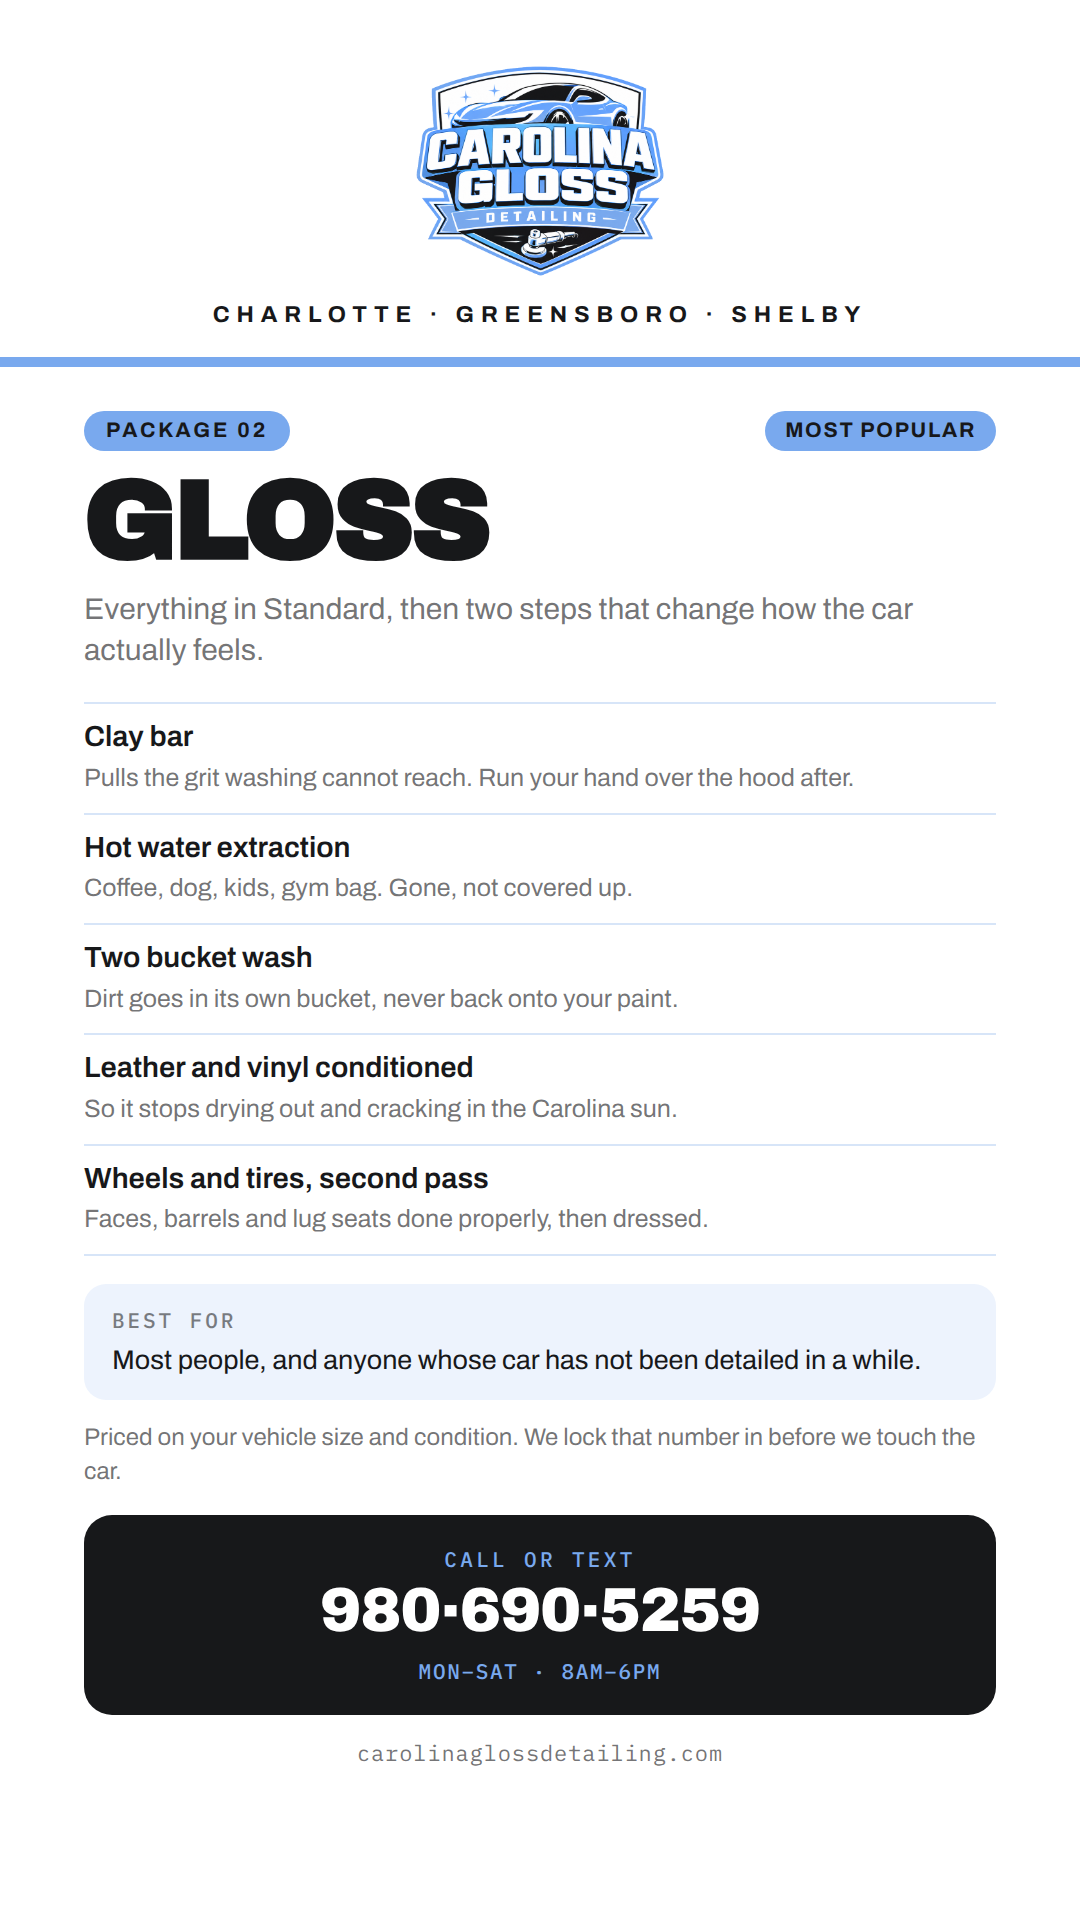
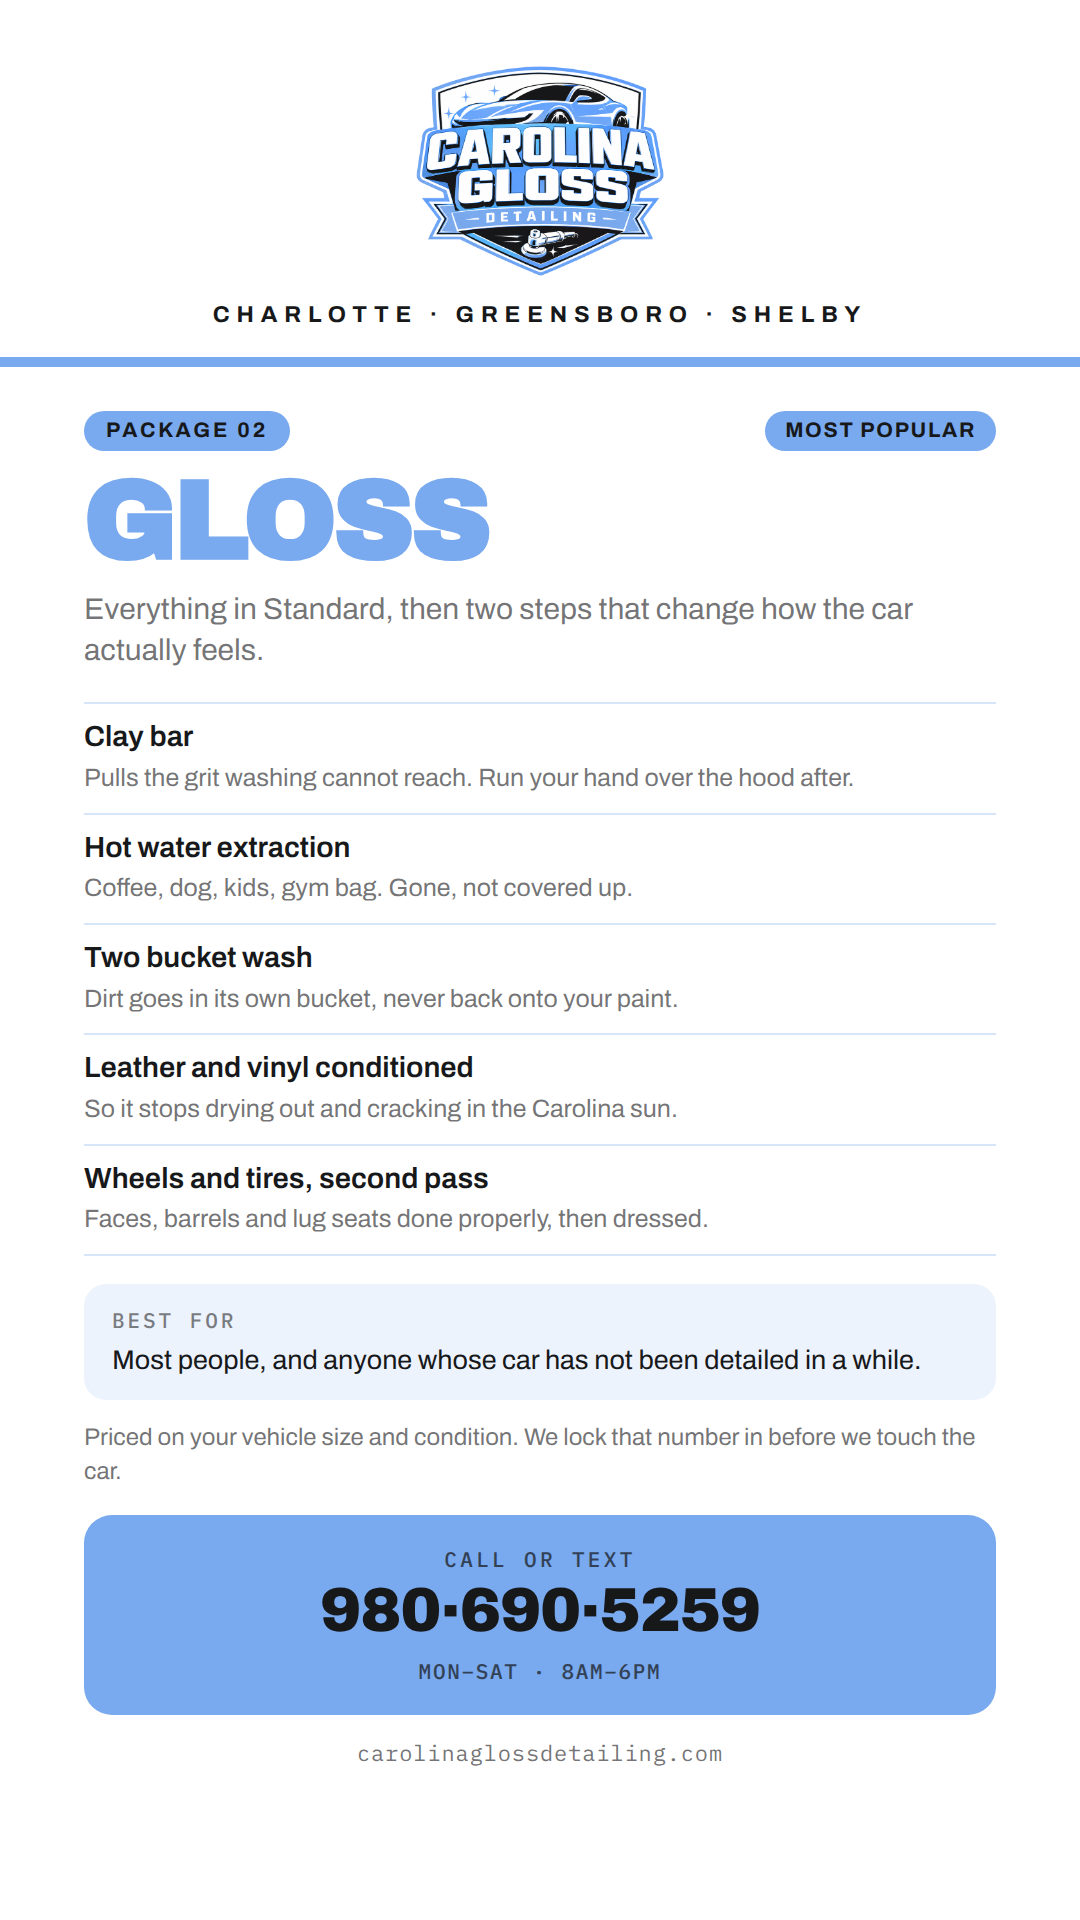
Put the package name and the CTA block in Carolina blue
The CTA block moves from black to #79A9EE and the package name headline
picks up the same blue. Type on the blue block is black rather than white:
white on #79A9EE is about 2.2:1 contrast and unreadable, black on it is 9.4:1.

Claude-Session: https://claude.ai/code/session_016b3V5EjCTmSZMCSHy3XdSF

Changed region(s): [[0.0611, 0.7812, 0.9472, 0.9062], [0.0611, 0.25, 0.4583, 0.3125]]

diff --git a/design/story-highlights/Story Highlights - Services.dc.html b/design/story-highlights/Story Highlights - Services.dc.html
@@ -34,7 +34,7 @@
         <div style="display:flex;align-items:center;justify-content:space-between;gap:20px;">
           <div style="background:#79A9EE;color:#17181A;border-radius:999px;padding:9px 22px;font:700 21px 'Archivo',sans-serif;letter-spacing:0.14em;">PACKAGE 01</div>
         </div>
-        <h1 style="margin:20px 0 0;font-family:'Archivo Black',Helvetica,sans-serif;font-size:112px;line-height:0.9;letter-spacing:-0.03em;color:#17181A;text-transform:uppercase;">Standard</h1>
+        <h1 style="margin:20px 0 0;font-family:'Archivo Black',Helvetica,sans-serif;font-size:112px;line-height:0.9;letter-spacing:-0.03em;color:#79A9EE;text-transform:uppercase;">Standard</h1>
         <p style="margin:18px 0 0;font:400 30px/1.38 'Archivo',sans-serif;color:rgba(23,24,26,0.62);text-wrap:pretty;">A full hand wash outside and a proper clean inside. No machines, no brushes, no shortcuts.</p>
         <div style="margin-top:30px;"><div style="padding:17px 0;border-top:2px solid #D7E5F8;"><div style="font:600 29px/1.2 'Archivo',sans-serif;color:#17181A;">Hand wash, top to bottom</div><div style="margin-top:6px;font:400 25px/1.34 'Archivo',sans-serif;color:rgba(23,24,26,0.62);">Two mitts and clean water. No brushes, no swirl marks.</div></div><div style="padding:17px 0;border-top:2px solid #D7E5F8;"><div style="font:600 29px/1.2 'Archivo',sans-serif;color:#17181A;">Wheels, tires and trim</div><div style="margin-top:6px;font:400 25px/1.34 'Archivo',sans-serif;color:rgba(23,24,26,0.62);">Brake dust out of the barrels, trim back to black.</div></div><div style="padding:17px 0;border-top:2px solid #D7E5F8;"><div style="font:600 29px/1.2 'Archivo',sans-serif;color:#17181A;">Full interior vacuum</div><div style="margin-top:6px;font:400 25px/1.34 'Archivo',sans-serif;color:rgba(23,24,26,0.62);">Seats, rails, under the mats, and the trunk.</div></div><div style="padding:17px 0;border-top:2px solid #D7E5F8;"><div style="font:600 29px/1.2 'Archivo',sans-serif;color:#17181A;">Glass, inside and out</div><div style="margin-top:6px;font:400 25px/1.34 'Archivo',sans-serif;color:rgba(23,24,26,0.62);">Streak free on both sides. You notice it driving at night.</div></div><div style="padding:17px 0;border-top:2px solid #D7E5F8;border-bottom:2px solid #D7E5F8;"><div style="font:600 29px/1.2 'Archivo',sans-serif;color:#17181A;">Vinyl sanitized, leather refreshed</div><div style="margin-top:6px;font:400 25px/1.34 'Archivo',sans-serif;color:rgba(23,24,26,0.62);">Dash, doors, console and every vent wiped down.</div></div></div>
         <div style="margin-top:28px;background:#EDF3FD;border-radius:22px;padding:22px 28px;">
@@ -42,10 +42,10 @@
           <div style="margin-top:8px;font:400 27px/1.34 'Archivo',sans-serif;color:#17181A;text-wrap:pretty;">A car that gets cleaned regularly and just needs bringing back.</div>
         </div>
         <p style="margin:22px 0 0;font:400 24px/1.4 'Archivo',sans-serif;color:rgba(23,24,26,0.62);text-wrap:pretty;">Priced on your vehicle size and condition. We lock that number in before we touch the car.</p>
-        <div style="margin-top:26px;background:#17181A;border-radius:28px;padding:30px 28px;display:flex;flex-direction:column;align-items:center;text-align:center;">
-          <div style="font:500 21px 'IBM Plex Mono',monospace;letter-spacing:0.16em;color:#79A9EE;">CALL OR TEXT</div>
-          <div style="margin-top:8px;font-family:'Archivo Black',Helvetica,sans-serif;font-size:62px;line-height:1;letter-spacing:-0.02em;color:#FFFFFF;white-space:nowrap;">980·690·5259</div>
-          <div style="margin-top:14px;font:500 21px 'IBM Plex Mono',monospace;letter-spacing:0.08em;color:#79A9EE;">MON–SAT · 8AM–6PM</div>
+        <div style="margin-top:26px;background:#79A9EE;border-radius:28px;padding:30px 28px;display:flex;flex-direction:column;align-items:center;text-align:center;">
+          <div style="font:500 21px 'IBM Plex Mono',monospace;letter-spacing:0.16em;color:#17181A;opacity:0.72;">CALL OR TEXT</div>
+          <div style="margin-top:8px;font-family:'Archivo Black',Helvetica,sans-serif;font-size:62px;line-height:1;letter-spacing:-0.02em;color:#17181A;white-space:nowrap;">980·690·5259</div>
+          <div style="margin-top:14px;font:500 21px 'IBM Plex Mono',monospace;letter-spacing:0.08em;color:#17181A;opacity:0.72;">MON–SAT · 8AM–6PM</div>
         </div>
         <div style="margin-top:24px;text-align:center;font:400 22px 'IBM Plex Mono',monospace;letter-spacing:0.04em;color:rgba(23,24,26,0.62);">carolinaglossdetailing.com</div>
       </div>
@@ -66,7 +66,7 @@
         <div style="display:flex;align-items:center;justify-content:space-between;gap:20px;">
           <div style="background:#79A9EE;color:#17181A;border-radius:999px;padding:9px 22px;font:700 21px 'Archivo',sans-serif;letter-spacing:0.14em;">PACKAGE 02</div><div style="flex:0 0 auto;background:#79A9EE;color:#17181A;border-radius:999px;padding:9px 20px;font:700 21px 'Archivo',sans-serif;letter-spacing:0.08em;">MOST POPULAR</div>
         </div>
-        <h1 style="margin:20px 0 0;font-family:'Archivo Black',Helvetica,sans-serif;font-size:112px;line-height:0.9;letter-spacing:-0.03em;color:#17181A;text-transform:uppercase;">Gloss</h1>
+        <h1 style="margin:20px 0 0;font-family:'Archivo Black',Helvetica,sans-serif;font-size:112px;line-height:0.9;letter-spacing:-0.03em;color:#79A9EE;text-transform:uppercase;">Gloss</h1>
         <p style="margin:18px 0 0;font:400 30px/1.38 'Archivo',sans-serif;color:rgba(23,24,26,0.62);text-wrap:pretty;">Everything in Standard, then two steps that change how the car actually feels.</p>
         <div style="margin-top:30px;"><div style="padding:17px 0;border-top:2px solid #D7E5F8;"><div style="font:600 29px/1.2 'Archivo',sans-serif;color:#17181A;">Clay bar</div><div style="margin-top:6px;font:400 25px/1.34 'Archivo',sans-serif;color:rgba(23,24,26,0.62);">Pulls the grit washing cannot reach. Run your hand over the hood after.</div></div><div style="padding:17px 0;border-top:2px solid #D7E5F8;"><div style="font:600 29px/1.2 'Archivo',sans-serif;color:#17181A;">Hot water extraction</div><div style="margin-top:6px;font:400 25px/1.34 'Archivo',sans-serif;color:rgba(23,24,26,0.62);">Coffee, dog, kids, gym bag. Gone, not covered up.</div></div><div style="padding:17px 0;border-top:2px solid #D7E5F8;"><div style="font:600 29px/1.2 'Archivo',sans-serif;color:#17181A;">Two bucket wash</div><div style="margin-top:6px;font:400 25px/1.34 'Archivo',sans-serif;color:rgba(23,24,26,0.62);">Dirt goes in its own bucket, never back onto your paint.</div></div><div style="padding:17px 0;border-top:2px solid #D7E5F8;"><div style="font:600 29px/1.2 'Archivo',sans-serif;color:#17181A;">Leather and vinyl conditioned</div><div style="margin-top:6px;font:400 25px/1.34 'Archivo',sans-serif;color:rgba(23,24,26,0.62);">So it stops drying out and cracking in the Carolina sun.</div></div><div style="padding:17px 0;border-top:2px solid #D7E5F8;border-bottom:2px solid #D7E5F8;"><div style="font:600 29px/1.2 'Archivo',sans-serif;color:#17181A;">Wheels and tires, second pass</div><div style="margin-top:6px;font:400 25px/1.34 'Archivo',sans-serif;color:rgba(23,24,26,0.62);">Faces, barrels and lug seats done properly, then dressed.</div></div></div>
         <div style="margin-top:28px;background:#EDF3FD;border-radius:22px;padding:22px 28px;">
@@ -74,10 +74,10 @@
           <div style="margin-top:8px;font:400 27px/1.34 'Archivo',sans-serif;color:#17181A;text-wrap:pretty;">Most people, and anyone whose car has not been detailed in a while.</div>
         </div>
         <p style="margin:22px 0 0;font:400 24px/1.4 'Archivo',sans-serif;color:rgba(23,24,26,0.62);text-wrap:pretty;">Priced on your vehicle size and condition. We lock that number in before we touch the car.</p>
-        <div style="margin-top:26px;background:#17181A;border-radius:28px;padding:30px 28px;display:flex;flex-direction:column;align-items:center;text-align:center;">
-          <div style="font:500 21px 'IBM Plex Mono',monospace;letter-spacing:0.16em;color:#79A9EE;">CALL OR TEXT</div>
-          <div style="margin-top:8px;font-family:'Archivo Black',Helvetica,sans-serif;font-size:62px;line-height:1;letter-spacing:-0.02em;color:#FFFFFF;white-space:nowrap;">980·690·5259</div>
-          <div style="margin-top:14px;font:500 21px 'IBM Plex Mono',monospace;letter-spacing:0.08em;color:#79A9EE;">MON–SAT · 8AM–6PM</div>
+        <div style="margin-top:26px;background:#79A9EE;border-radius:28px;padding:30px 28px;display:flex;flex-direction:column;align-items:center;text-align:center;">
+          <div style="font:500 21px 'IBM Plex Mono',monospace;letter-spacing:0.16em;color:#17181A;opacity:0.72;">CALL OR TEXT</div>
+          <div style="margin-top:8px;font-family:'Archivo Black',Helvetica,sans-serif;font-size:62px;line-height:1;letter-spacing:-0.02em;color:#17181A;white-space:nowrap;">980·690·5259</div>
+          <div style="margin-top:14px;font:500 21px 'IBM Plex Mono',monospace;letter-spacing:0.08em;color:#17181A;opacity:0.72;">MON–SAT · 8AM–6PM</div>
         </div>
         <div style="margin-top:24px;text-align:center;font:400 22px 'IBM Plex Mono',monospace;letter-spacing:0.04em;color:rgba(23,24,26,0.62);">carolinaglossdetailing.com</div>
       </div>
@@ -98,7 +98,7 @@
         <div style="display:flex;align-items:center;justify-content:space-between;gap:20px;">
           <div style="background:#79A9EE;color:#17181A;border-radius:999px;padding:9px 22px;font:700 21px 'Archivo',sans-serif;letter-spacing:0.14em;">PACKAGE 03</div>
         </div>
-        <h1 style="margin:20px 0 0;font-family:'Archivo Black',Helvetica,sans-serif;font-size:112px;line-height:0.9;letter-spacing:-0.03em;color:#17181A;text-transform:uppercase;">Deluxe</h1>
+        <h1 style="margin:20px 0 0;font-family:'Archivo Black',Helvetica,sans-serif;font-size:112px;line-height:0.9;letter-spacing:-0.03em;color:#79A9EE;text-transform:uppercase;">Deluxe</h1>
         <p style="margin:18px 0 0;font:400 30px/1.38 'Archivo',sans-serif;color:rgba(23,24,26,0.62);text-wrap:pretty;">We strip it back first so the new protection actually bonds, then seal and wax it.</p>
         <div style="margin-top:30px;"><div style="padding:17px 0;border-top:2px solid #D7E5F8;"><div style="font:600 29px/1.2 'Archivo',sans-serif;color:#17181A;">Full clay bar</div><div style="margin-top:6px;font:400 25px/1.34 'Archivo',sans-serif;color:rgba(23,24,26,0.62);">The whole body decontaminated panel by panel, not a spot treatment.</div></div><div style="padding:17px 0;border-top:2px solid #D7E5F8;"><div style="font:600 29px/1.2 'Archivo',sans-serif;color:#17181A;">Chemical strip wash</div><div style="margin-top:6px;font:400 25px/1.34 'Archivo',sans-serif;color:rgba(23,24,26,0.62);">Old wax and road film off so the new protection bonds.</div></div><div style="padding:17px 0;border-top:2px solid #D7E5F8;"><div style="font:600 29px/1.2 'Archivo',sans-serif;color:#17181A;">Ceramic soap</div><div style="margin-top:6px;font:400 25px/1.34 'Archivo',sans-serif;color:rgba(23,24,26,0.62);">Lays down a slick layer. Water sheets straight off your paint.</div></div><div style="padding:17px 0;border-top:2px solid #D7E5F8;"><div style="font:600 29px/1.2 'Archivo',sans-serif;color:#17181A;">Hand wax and spray sealant</div><div style="margin-top:6px;font:400 25px/1.34 'Archivo',sans-serif;color:rgba(23,24,26,0.62);">Months of protection against pollen, sun and road salt.</div></div><div style="padding:17px 0;border-top:2px solid #D7E5F8;border-bottom:2px solid #D7E5F8;"><div style="font:600 29px/1.2 'Archivo',sans-serif;color:#17181A;">Interior shampooed and conditioned</div><div style="margin-top:6px;font:400 25px/1.34 'Archivo',sans-serif;color:rgba(23,24,26,0.62);">Comes back looking like a lease return.</div></div></div>
         <div style="margin-top:28px;background:#EDF3FD;border-radius:22px;padding:22px 28px;">
@@ -106,10 +106,10 @@
           <div style="margin-top:8px;font:400 27px/1.34 'Archivo',sans-serif;color:#17181A;text-wrap:pretty;">Selling it, gifting it, or you just love the thing.</div>
         </div>
         <p style="margin:22px 0 0;font:400 24px/1.4 'Archivo',sans-serif;color:rgba(23,24,26,0.62);text-wrap:pretty;">Priced on your vehicle size and condition. We lock that number in before we touch the car.</p>
-        <div style="margin-top:26px;background:#17181A;border-radius:28px;padding:30px 28px;display:flex;flex-direction:column;align-items:center;text-align:center;">
-          <div style="font:500 21px 'IBM Plex Mono',monospace;letter-spacing:0.16em;color:#79A9EE;">CALL OR TEXT</div>
-          <div style="margin-top:8px;font-family:'Archivo Black',Helvetica,sans-serif;font-size:62px;line-height:1;letter-spacing:-0.02em;color:#FFFFFF;white-space:nowrap;">980·690·5259</div>
-          <div style="margin-top:14px;font:500 21px 'IBM Plex Mono',monospace;letter-spacing:0.08em;color:#79A9EE;">MON–SAT · 8AM–6PM</div>
+        <div style="margin-top:26px;background:#79A9EE;border-radius:28px;padding:30px 28px;display:flex;flex-direction:column;align-items:center;text-align:center;">
+          <div style="font:500 21px 'IBM Plex Mono',monospace;letter-spacing:0.16em;color:#17181A;opacity:0.72;">CALL OR TEXT</div>
+          <div style="margin-top:8px;font-family:'Archivo Black',Helvetica,sans-serif;font-size:62px;line-height:1;letter-spacing:-0.02em;color:#17181A;white-space:nowrap;">980·690·5259</div>
+          <div style="margin-top:14px;font:500 21px 'IBM Plex Mono',monospace;letter-spacing:0.08em;color:#17181A;opacity:0.72;">MON–SAT · 8AM–6PM</div>
         </div>
         <div style="margin-top:24px;text-align:center;font:400 22px 'IBM Plex Mono',monospace;letter-spacing:0.04em;color:rgba(23,24,26,0.62);">carolinaglossdetailing.com</div>
       </div>

diff --git a/design/story-highlights/build.py b/design/story-highlights/build.py
@@ -115,7 +115,7 @@ body{{width:1080px;height:1920px;overflow:hidden;background:#fff;
 .eyebrow .tag{{background:{blue};color:{ink};border-radius:999px;padding:9px 22px;
  font:700 21px Archivo,sans-serif;letter-spacing:0.14em;}}
 h1{{margin:20px 0 0;font-family:'Archivo Black',Helvetica,sans-serif;font-size:112px;
- line-height:0.9;letter-spacing:-0.03em;color:{ink};text-transform:uppercase;}}
+ line-height:0.9;letter-spacing:-0.03em;color:{blue};text-transform:uppercase;}}
 .sub{{margin:18px 0 0;font:400 30px/1.38 Archivo,sans-serif;color:{muted};}}
 .rows{{margin-top:30px;}}
 .best{{margin-top:28px;background:{tint};border-radius:22px;padding:22px 28px;}}
@@ -123,13 +123,14 @@ h1{{margin:20px 0 0;font-family:'Archivo Black',Helvetica,sans-serif;font-size:1
  opacity:0.55;}}
 .best .txt{{margin-top:8px;font:400 27px/1.34 Archivo,sans-serif;color:{ink};}}
 .price{{margin:22px 0 0;font:400 24px/1.4 Archivo,sans-serif;color:{muted};}}
-.cta{{margin-top:26px;background:{ink};border-radius:28px;padding:30px 28px;
+.cta{{margin-top:26px;background:{blue};border-radius:28px;padding:30px 28px;
  display:flex;flex-direction:column;align-items:center;text-align:center;}}
-.cta .lbl{{font:500 21px 'IBM Plex Mono',monospace;letter-spacing:0.16em;color:{blue};}}
+.cta .lbl{{font:500 21px 'IBM Plex Mono',monospace;letter-spacing:0.16em;
+ color:{ink};opacity:0.72;}}
 .cta .num{{margin-top:8px;font-family:'Archivo Black',Helvetica,sans-serif;font-size:62px;
- line-height:1;letter-spacing:-0.02em;color:#fff;white-space:nowrap;}}
+ line-height:1;letter-spacing:-0.02em;color:{ink};white-space:nowrap;}}
 .cta .hrs{{margin-top:14px;font:500 21px 'IBM Plex Mono',monospace;
- letter-spacing:0.08em;color:{blue};}}
+ letter-spacing:0.08em;color:{ink};opacity:0.72;}}
 .site{{margin-top:24px;text-align:center;font:400 22px 'IBM Plex Mono',monospace;
  letter-spacing:0.04em;color:{muted};}}
 </style></head><body><div class="frame">
@@ -226,7 +227,7 @@ def canvas_section(pkg, idx):
         <div style="display:flex;align-items:center;justify-content:space-between;gap:20px;">
           <div style="background:{blue};color:{ink};border-radius:999px;padding:9px 22px;font:700 21px 'Archivo',sans-serif;letter-spacing:0.14em;">{eyebrow}</div>{pill}
         </div>
-        <h1 style="margin:20px 0 0;font-family:'Archivo Black',Helvetica,sans-serif;font-size:112px;line-height:0.9;letter-spacing:-0.03em;color:{ink};text-transform:uppercase;">{title}</h1>
+        <h1 style="margin:20px 0 0;font-family:'Archivo Black',Helvetica,sans-serif;font-size:112px;line-height:0.9;letter-spacing:-0.03em;color:{blue};text-transform:uppercase;">{title}</h1>
         <p style="margin:18px 0 0;font:400 30px/1.38 'Archivo',sans-serif;color:{muted};text-wrap:pretty;">{sub}</p>
         <div style="margin-top:30px;">{rows}</div>
         <div style="margin-top:28px;background:{tint};border-radius:22px;padding:22px 28px;">
@@ -234,10 +235,10 @@ def canvas_section(pkg, idx):
           <div style="margin-top:8px;font:400 27px/1.34 'Archivo',sans-serif;color:{ink};text-wrap:pretty;">{best}</div>
         </div>
         <p style="margin:22px 0 0;font:400 24px/1.4 'Archivo',sans-serif;color:{muted};text-wrap:pretty;">{price}</p>
-        <div style="margin-top:26px;background:{ink};border-radius:28px;padding:30px 28px;display:flex;flex-direction:column;align-items:center;text-align:center;">
-          <div style="font:500 21px 'IBM Plex Mono',monospace;letter-spacing:0.16em;color:{blue};">CALL OR TEXT</div>
-          <div style="margin-top:8px;font-family:'Archivo Black',Helvetica,sans-serif;font-size:62px;line-height:1;letter-spacing:-0.02em;color:#FFFFFF;white-space:nowrap;">{phone}</div>
-          <div style="margin-top:14px;font:500 21px 'IBM Plex Mono',monospace;letter-spacing:0.08em;color:{blue};">{hours}</div>
+        <div style="margin-top:26px;background:{blue};border-radius:28px;padding:30px 28px;display:flex;flex-direction:column;align-items:center;text-align:center;">
+          <div style="font:500 21px 'IBM Plex Mono',monospace;letter-spacing:0.16em;color:{ink};opacity:0.72;">CALL OR TEXT</div>
+          <div style="margin-top:8px;font-family:'Archivo Black',Helvetica,sans-serif;font-size:62px;line-height:1;letter-spacing:-0.02em;color:{ink};white-space:nowrap;">{phone}</div>
+          <div style="margin-top:14px;font:500 21px 'IBM Plex Mono',monospace;letter-spacing:0.08em;color:{ink};opacity:0.72;">{hours}</div>
         </div>
         <div style="margin-top:24px;text-align:center;font:400 22px 'IBM Plex Mono',monospace;letter-spacing:0.04em;color:{muted};">carolinaglossdetailing.com</div>
       </div>

diff --git a/design/story-highlights/COPY.md b/design/story-highlights/COPY.md
@@ -63,9 +63,10 @@ Sampled from the pixels of `assets/logo.png`. Three colors, nothing else.
 | Role | Hex | Where it appears |
 |---|---|---|
 | White | `#FFFFFF` | the ground, everywhere |
-| Black | `#17181A` | all type, the CTA block. Neutral, no blue cast |
-| Carolina blue | `#79A9EE` | 35% of the crest. Divider bar, pills, CTA label and hours |
+| Black | `#17181A` | body type, and the type sitting on the blue CTA. Neutral, no blue cast |
+| Carolina blue | `#79A9EE` | 35% of the crest. Package name, CTA block, divider bar, pills |
 
 `#EDF3FD` and `#D7E5F8` are that same blue washed into white for the card and the
 dividers. The blue is too light for small text on white, so it only ever appears as a
-fill with black on top of it, never as type on the white ground.
+fill with black on top of it. The one exception is the package name, which is set in
+blue at 112px where the size carries it.
